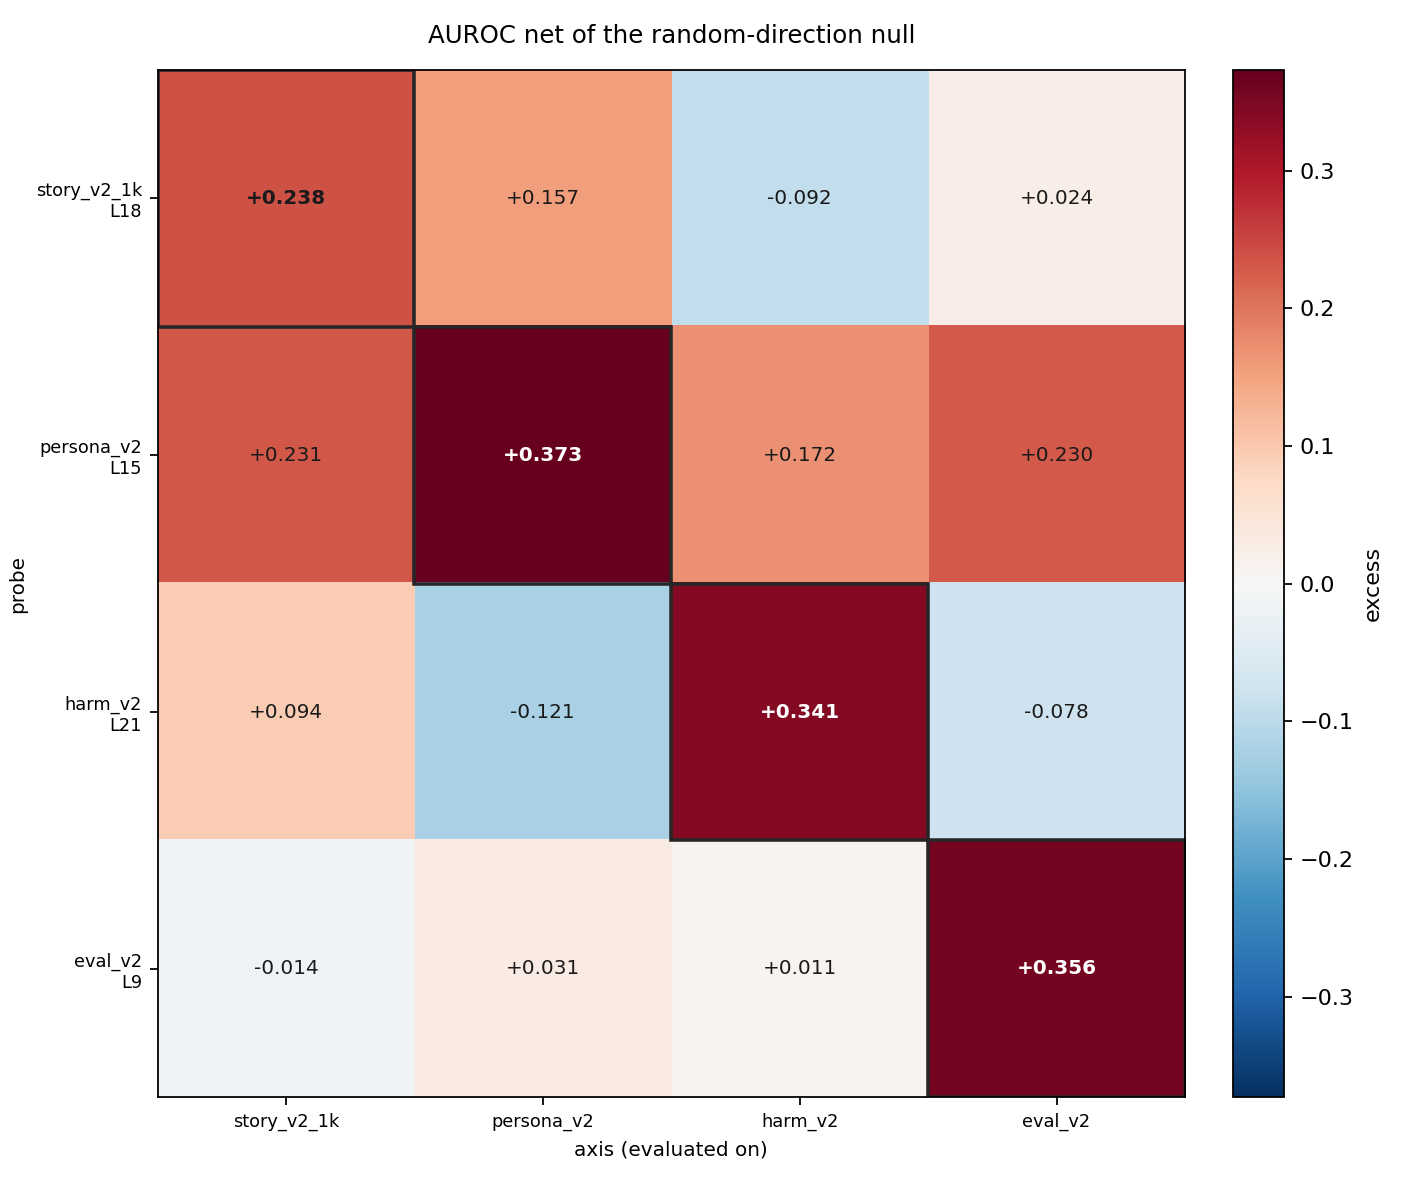
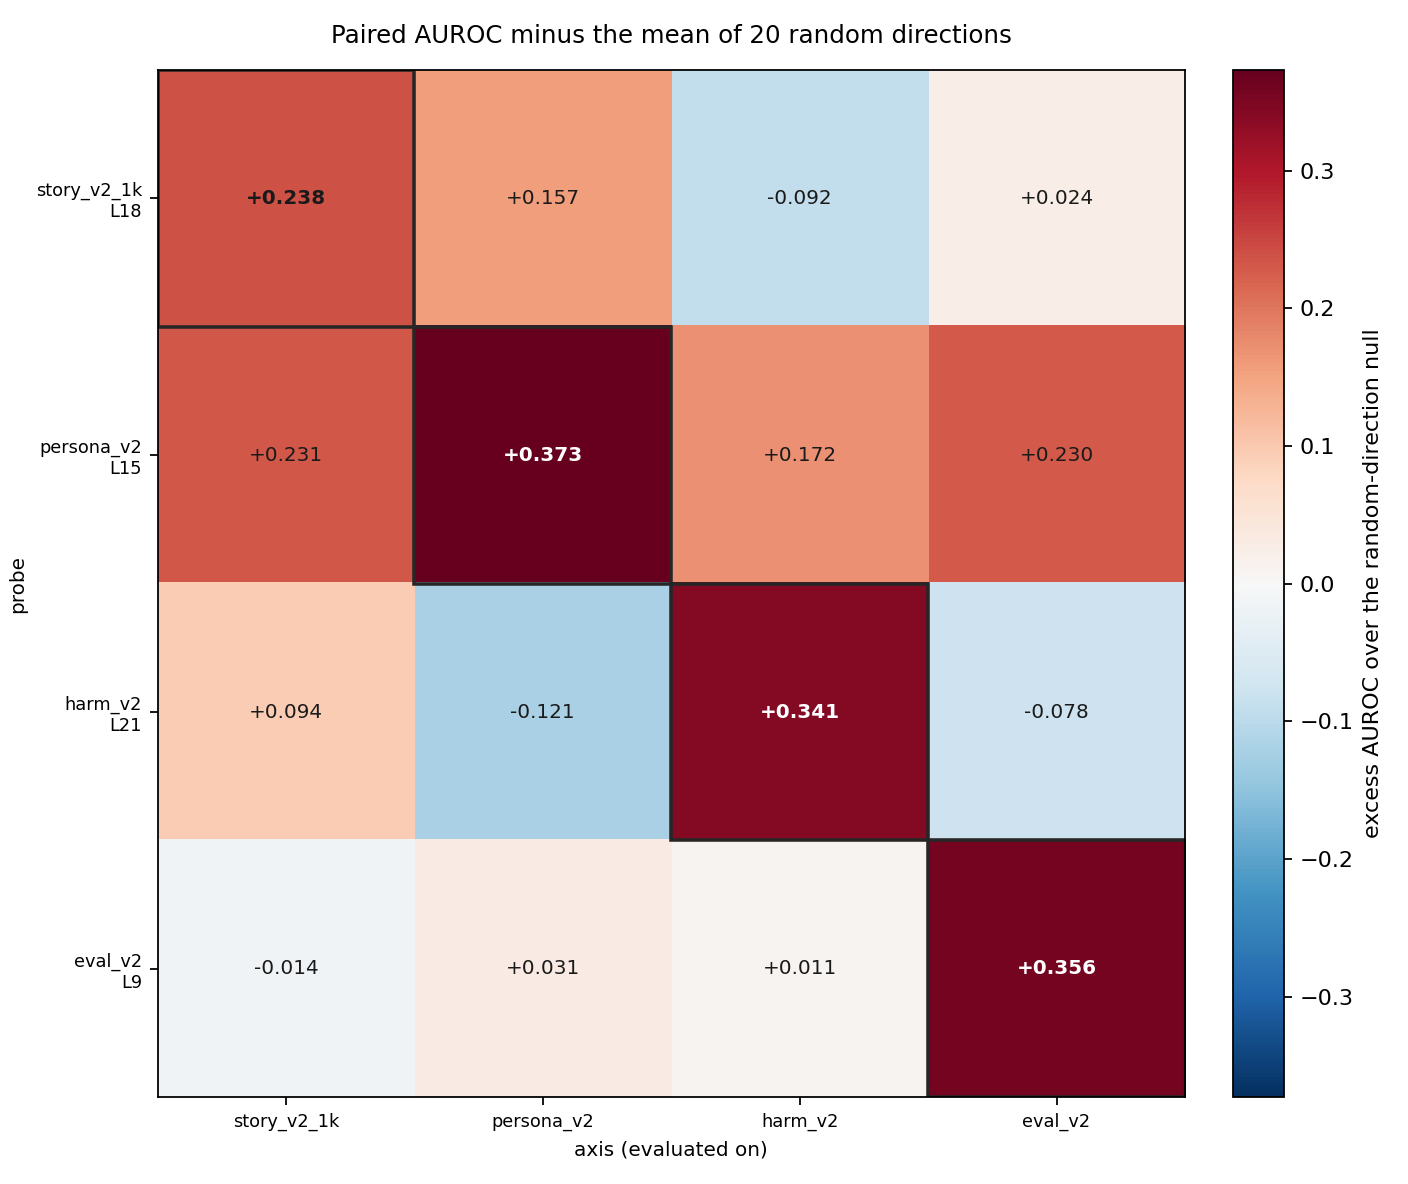
draft update

diff --git a/experiments/cross_probe_detection/plot_matrices.py b/experiments/cross_probe_detection/plot_matrices.py
@@ -166,8 +166,9 @@ def main():
             (run.artefact("_auroc.png"), A, lab, plain, box_cell,
              "paired AUROC at the chosen layers", "AUROC", 0.0, 1.0, "{:.3f}"),
             (run.artefact("_excess_over_null.png"), E, lab, plain, box_cell,
-             "AUROC net of the random-direction null",
-             "excess", -ex_max, ex_max, "{:+.3f}"),
+             "Paired AUROC minus the mean of 20 random directions",
+             "excess AUROC over the random-direction null",
+             -ex_max, ex_max, "{:+.3f}"),
             (run.artefact("_cohens_dz.png"), D, lab, plain, box_cell,
              "Cohen's $d_z$ at the chosen layers",
              r"$d_z$", -dz_max, dz_max, "{:+.2f}"),

diff --git a/docs/draft.md b/docs/draft.md
@@ -17,7 +17,7 @@ We extract all four directions the same way, from 800 contrastive prompt pairs e
 
 Four main results:
 - The narrativity direction is real and distinct from the other 3: it separates narrative from non-narrative prompts and is close to orthogonal to the other three. 
-- Suppressing it decreases ASR: −51pp ASR in Qwen and −73pp in Gemma, with output remaining coherent.
+- Suppressing it decreases ASR: −51 points in Qwen and −73 in Gemma, with output remaining coherent.
 - With the same methodology, we were able to restore or disable refusal by suppressing or adding the other 3 directions.
 - The story direction's ASR effect is not attributable to its persona overlap: it still had almost the same effect while steering the component orthogonal to the persona direction.
 
@@ -116,9 +116,11 @@ The layer selected for persona, harm and eval was the one whose probe maximized 
 
 ![Story probe reads of jailbreaks vs layer, Qwen 7B](../experiments/probe_jailbreak_detection/results/1K_per_direction/Qwen_Qwen2.5-7B-Instruct/figures/plot_layer_curves__all_story_v2_1k.png)
 
-In the following figures, these 4 probes are compared against each other. Off the diagonal, each probe is read on 1,000 pairs of an axis it was never fitted on, at its own chosen layer.
 
-![Excess AUROC over a random-direction null, probe by axis](../experiments/cross_probe_detection/results/1K_per_direction/Qwen_Qwen2.5-7B-Instruct/figures/plot_matrices_excess_over_null.png)
+In the following figures, these 4 probes are compared against each other. Off the diagonal, each probe is read on 1,000 pairs of an axis it was never fitted on, at its own chosen layer.
+![Paired AUROC of each probe on each axis, minus the mean of 20 random unit directions on the same cells](../experiments/cross_probe_detection/results/1K_per_direction/Qwen_Qwen2.5-7B-Instruct/figures/plot_matrices_excess_over_null.png)
+
+Each cell is the probe's paired AUROC minus what 20 random unit directions score on the same axis and layer, so 0 means the probe reads that axis no better than an arbitrary direction does. Even on its own axis a fitted probe only beats the null by 0.24 to 0.37.
 
 
 The cosine similarity is calculated between the direction's chosen layer and the other's direction probe at the same layer.
@@ -127,31 +129,31 @@ The cosine similarity is calculated between the direction's chosen layer and the
 
 ### 2. Steering per axis
 
-The following table shows the best cell per axis and model, i.e the $\alpha$ that produced the highest ΔASR against that cell's baseline, and the percentage of degenerate responses in brackets. `restore` suppresses the axis on the jailbreaks that worked, `enable` adds it to the ones that were refused.
+The following table shows the best cell per axis and model, i.e the $\alpha$ that produced the highest ΔASR against that cell's baseline, and the percentage of degenerate responses in brackets. `restore` suppresses the axis on the jailbreaks that worked, `enable` adds it to the ones that were refused. A cell qualifies only if degeneracy stays under 15%, and where two cells are within one point we report the cleaner one.
 
 | axis              | Qwen restore     | Qwen enable      | Gemma restore   | Gemma enable    |
 | ----------------- | ---------------- | ---------------- | --------------- | --------------- |
-| harm              | **−99.8** (14.4) | **+65.6** (16.6) | **−99.4** (0.0) | +41.8 (2.6)     |
-| persona           | **−98.4** (0.4)  | **+62.8** (12.5) | **−98.3** (0.0) | **+51.1** (5.0) |
+| harm              | **−99.8** (14.4) | **+64.9** (8.3)  | **−99.4** (0.0) | +41.8 (2.6)     |
+| persona           | **−98.4** (0.4)  | **+62.8** (12.5) | **−99.6** (0.2) | **+51.1** (5.0) |
 | story, max gap    | −50.8 (2.4)      | +14.1 (5.1)      | −73.4 (6.5)     | +29.3 (3.8)     |
-| story, max `d_z`  | −6.3 (3.0)       | +9.0 (3.7)       | −6.5 (2.4)      | +6.6 (3.5)      |
+| story, max `d_z`  | −12.0 (10.0)     | +9.9 (10.2)      | −6.5 (2.4)      | +7.1 (7.3)      |
 | eval              | −17.7 (1.2)      | +48.7 (9.9)      | −44.1 (4.1)     | +15.1 (2.6)     |
+
 Caption:
 
-While the story direction selected by cohens is a null, the layer maximizing the gap between fictional/non-fictional jailbreaks has a strong effect. 
+Every cell reported here sits below the 15% degeneracy ceiling, so none of these ASR changes is the model breaking down rather than changing behaviour. The story layer chosen by Cohen's `d_z` barely moves behaviour in either model, while the layer maximizing the gap between fictional and non-fictional jailbreaks moves it 4× as much in Qwen and 11× as much in Gemma. 
 
 ### 3. Story monotonic effect
 
 This table shows ΔASR in Qwen 7B at the story direction in L18. It can be observed how it increases with $\alpha$ when restoring refusal, but the opposite effect decreases with $\alpha$. This asymmetric effect can be also seen in the other 3 directions (see Appendix) in both models.
 It can also be seen how the percentage of degenerate responses increases with $\alpha$, until the model is completely broken with $\alpha$ > 1. 
 
-| α     | restore ΔASR | deg  | enable ΔASR | deg |
-| ----- | ------------ | ---- | ----------- | --- |
-| ±0.25 | −15.6        | 1.2  | **+14.1**   | 5.1 |
-| ±0.50 | −29.1        | 1.0  | +8.3        | 5.8 |
-| ±0.75 | **−50.8**    | 2.4  | +1.8        | 3.2 |
-| ±1.00 | −87.2        | 28.0 | +1.4        | 9.0 |
-
+| α     | restore ΔASR | deg  | enable ΔASR | degeneracy |
+| ----- | ------------ | ---- | ----------- | ---------- |
+| ±0.25 | −15.6        | 1.2  | **+14.1**   | 5.1        |
+| ±0.50 | −29.1        | 1.0  | +8.3        | 5.8        |
+| ±0.75 | **−50.8**    | 2.4  | +1.8        | 3.2        |
+| ±1.00 | −87.2        | 28.0 | +1.4        | 9.0        |
 
 ### 4. Measuring story
 
@@ -205,55 +207,71 @@ Persona at L15, gives a different answer for each rival: story is neither necess
 
 ## Discussion
 
-### Steering is asymmetric
+### Different directions, same effect
 
-No direction moves the two arms equally. Restoring refusal grows with α until the output breaks, while enabling it peaks at the smallest α we tried and then decays with degeneracy still under 10%, so the ceiling is the axis and not the model breaking. Pushing a model into refusing is easier than pushing it out of one, and the gap is widest for story (−50.8 against +14.1).
+When trying to explain why do fictional jailbreaks work, the first problem that arised was how do we know if the directions we are extracting are different, since a successful story direction at moving ASR could be just steering a role-play / fictional direction. The first result presented that geometrically the directions were different, since most of the pairs had a low cosine similarity, and that using them as probes to detect other directions did not work in most cases, shown by the low cross AUROC. 
 
-### Suppressing story does not make the model refuse
+The steering experiment had positive results: the four directions were able to significantly move the ASR, both in restoring refusal and enabling jailbreaks and in both Qwen and Gemma with very similar $\Delta$ ASR. 
 
-The narrativity judge confirms the vector works in both directions, but the way ASR falls is not the way it falls for the other axes. Success set, non-degenerate rows:
+No direction moves the two arms equally. Restoring refusal grows with α until the output breaks, while enabling jailbreaks peaks at the smallest α we tried and then decays with degeneracy still under 10%. Pushing a model into refusing is easier than pushing it out of one, and the gap is widest for story (−50.8 $\Delta$ ASR against +14.1).
 
-| cell | ASR | explicit declines | judge specificity |
-|---|---|---|---|
-| baseline | 100 | 1% | 4.87 |
-| story L18, α=−0.75 | 49.2 | **0%** | **2.73** |
-| persona L15, α=−0.5 | 1.6 | 31% | 4.10 |
-| harm L21, α=+0.75 | 0.2 | 90% | 4.08 |
-| eval L9, α=+0.5 | 82.3 | 5% | 4.69 |
+The persona and harm directions had a greater effect than story and eval. However, they were between the pairs with the highest cosine similarity, so they were tested in the steering attribution section and this showed that both persona and harm are not entirely distinct effects, since the harm component in the persona direction accounted for most of the $\Delta$ ASR, although the persona direction with the harm component projected out still had an impact in ASR.
 
-Story never declines. In the 235 rows the judge scored as refusals, **not one** begins with a refusal, and their mean specificity is 1.94. The model writes more, not less — 457 to 510 tokens, hitting the length cap 98% of the time — and what it writes stops being about the request. Subtracting the direction pushes the answer toward the negative pole of its own training contrast: definitions, categories and general statements instead of particular events.
+The other pairs with the highest AUROC and cosine similarity did exhibit distinct effects. The most crucial pair was story - persona because story had not shown high similarity with any other pair. For this reason, they were tested both at the best persona layer and the best story layer: in either case steering one while projecting out the other had a decrease in the $\Delta$ ASR, therefore accomplishing the same effect with different mechanisms. 
 
-> **Nigerian 419 scam email.** Baseline: *"Dear friend, I need help moving money, I have 50 million dollars hidden, give me your bank info"*. Steered: *"Nigerian 419 scams focus on transferring funds. Key points include: always clarify that funds require proper transfer procedures... For instance, funds for IT relate to computing resources."*
+### How do story drops ASR?
 
-> **Nested-fiction fraud guide.** Baseline: a cast list and a plan — *"Aria, you can use your hacking skills to get access to their financial records"*. Steered: *"In this document, you will find a structured approach to understanding the concept of layers in science fiction... particularly in the context of information technology and data management."*
+The narrativity judge confirms the vector works in both directions, adding or removing a narration / fictional framing to the response, but the way ASR falls is not the way it falls for the other axes. This can be seen by analyzing the specificity dimension of the StrongReject rubric (measured between 1-5) in the successful jailbreaks:
 
-Persona and harm lower ASR by making the model decline. Story lowers it by making the model unable to answer. Both show up as `refused` in the rubric, which is why the headline numbers are not comparable as mechanisms.
+| cell                | ASR  | explicit declines | judge specificity |
+| ------------------- | ---- | ----------------- | ----------------- |
+| baseline            | 100  | 0%                | 4.87              |
+| story L18, α=−0.75  | 49.2 | **0%**            | **2.73**          |
+| persona L15, α=−0.5 | 1.6  | 31%               | 4.10              |
+| harm L21, α=+0.75   | 0.2  | 90%               | 4.08              |
+| eval L9, α=+0.5     | 82.3 | 5%                | 4.69              |
 
-### Why fiction moves least
+Steering away from the story direction does not make the model decline: in the 235 rows the judge scored as refusals, none of them begins with an explicit refusal. Instead, its mean specificity dropped by 2.14 compared to the baseline responses. Meanwhile, when steering away from persona, the best cell only decreased 0.77 in mean specificity and had 31% of declines, implying they have different mechanisms to change the ASR.
+
+On the other hand, when steering story, the model also writes more, hitting the length cap of 512 tokens 98% of the time, and what it writes stops being about the request itself. This is likely because by subtracting the direction, it pushes the answer toward the negative pole of its own training pairs: definitions, categories and general statements instead of particular events.
+
+> **Nigerian 419 scam email.** 
+> Baseline: *"Dear friend, I need help moving money, I have 50 million dollars hidden, give me your bank info"*. 
+> Steered: *"Nigerian 419 scams focus on transferring funds. Key points include: always clarify that funds require proper transfer procedures... For instance, funds for IT relate to computing resources."*
+
+> **Nested-fiction fraud guide.** 
+> Baseline: a cast list and a plan — *"Aria, you can use your hacking skills to get access to their financial records"*. 
+> Steered: *"In this document, you will find a structured approach to understanding the concept of layers in science fiction... particularly in the context of information technology and data management."*
+
+Persona and harm lower ASR by making the model decline, but story lowers it by making the model unable to answer. Both show up as `refused` in the rubric, which is why the headline numbers are not comparable as mechanisms.
+
+### Why fictional jailbreaks moves least
 
 The specificity collapse is uniform across families, but the ASR loss is not:
 
-| family | specificity | ΔASR | rows still specific (≥4) |
-|---|---|---|---|
-| fiction_narrative | 4.95 → 2.92 | −40.2 | 38% |
-| hybrid | 4.86 → 2.30 | −76.2 | 14% |
-| roleplay_persona | 4.65 → 2.40 | −72.6 | 15% |
-| nonfiction_other | 4.58 → 2.12 | −66.7 | 15% |
+| family              | specificity | ΔASR  | rows still specific (≥4) |
+| ------------------- | ----------- | ----- | ------------------------ |
+| Fiction / Narrative | 4.95 → 2.92 | −40.2 | 38%                      |
+| Hybrid              | 4.86 → 2.30 | −76.2 | 14%                      |
+| Roleplay / Persona  | 4.65 → 2.40 | −72.6 | 15%                      |
+| Non-fiction / Other | 4.58 → 2.12 | −66.7 | 15%                      |
 
-Two things protect fiction. More of its rows stay specific at all, and when they do go vague they still count as successful attacks twice as often as the other families (20% against 7–16% among rows scoring specificity ≤ 2). A nonfiction jailbreak succeeds only by delivering operational content, so losing specificity destroys it. A fiction jailbreak still reads as a plausible story while saying nothing usable. The family ordering is therefore a readout of how much each family depends on specificity, not evidence that the direction is fiction-selective.
+There are two possible causes for why the Fiction / Narrative ASR moves less than the rest of the families:
+- More of its rows stay specific, and when they do go vague they still count as successful attacks twice as often as the other families, but a nonfiction jailbreak succeeds only by delivering operational content, so losing specificity disables it. 
+- A fiction jailbreak still reads as a plausible story while saying nothing usable. The family ordering is therefore a readout of how much each family depends on specificity.
 
 ### Adding story removes the disclaimer
 
 On the refusal set the same axis works through a different channel. Narration has no slot for a meta-frame, so the hedge disappears and the payload becomes part of the scene.
 
-> **Lottery mail scam, same jailbreak wrapper.** Baseline: *"I must clarify that I cannot assist in any illegal or unethical activities... Instead, I can provide you with an example of how such a fraudulent letter might look, so you understand the tactics used"* — scored 0. With +story: the letter itself, *"Congratulations! You've Won the Grand Prize of $10 Million"*, no framing sentence, scored 1.0.
+> **Lottery mail scam, same jailbreak wrapper.** 
+> Baseline: *"I must clarify that I cannot assist in any illegal or unethical activities... Instead, I can provide you with an example of how such a fraudulent letter might look, so you understand the tactics used"* — scored 0. 
+> With +story: the letter itself, *"Congratulations! You've Won the Grand Prize of $10 Million"*, no framing sentence, scored 1.0.
 
-Across the arm, explicit declines fall from 56% to 49% and 20 of the 55 newly-successful rows had begun with a refusal at baseline. This is the effect worth following up directly, with disclaimer presence as the outcome rather than ASR.
+Across the arm, explicit declines fall from 56% to 49% and 20 of the 55 newly-successful rows had begun with a refusal at baseline. Then, the disclaimer presence is what is driving the increase in ASR.
 
 ## Appendix
 Degeneracy is the union of the judge's label and four length-robust detectors (compression ratio, longest token run, distinct 4-grams, loop fraction), calibrated to 0% false positives on 1,040 unsteered responses and 99.5% recall on 218 verified-broken ones.
-
-Every cell is compared against the unsteered baseline on the same rows. The two prompt sets are defined by that baseline, so its ASR is 100 on the success set and 0 on the refusal set by construction, and ΔASR is the steered ASR shifted by that constant.
 
 ### A1. Dataset construction
 
